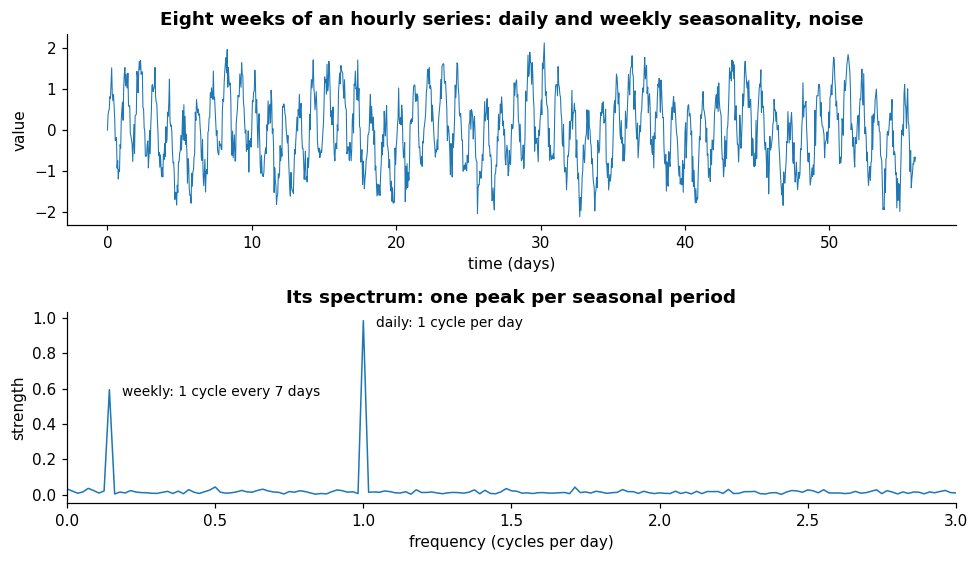
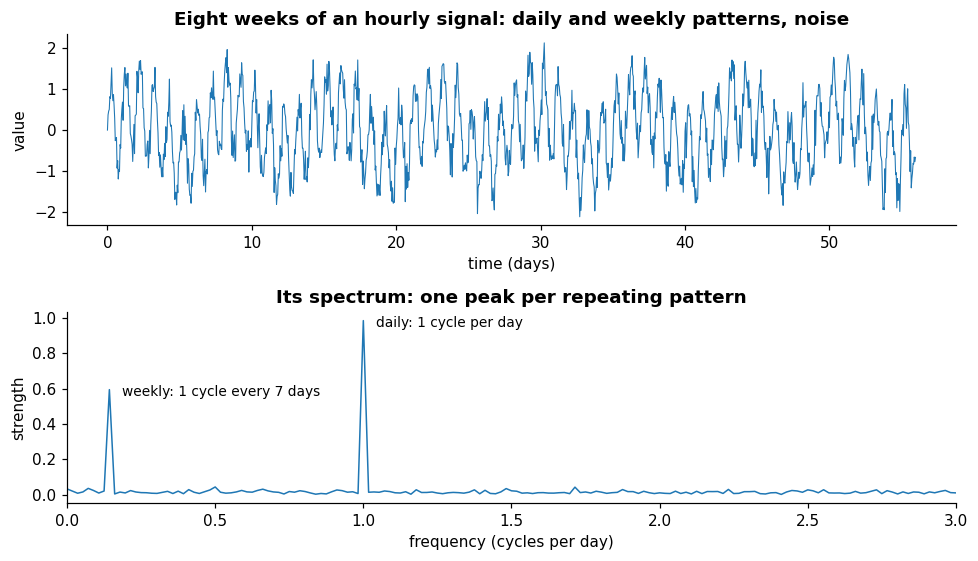
docs(knowledge): say signal in the Fourier doc; add images and features

Changed region(s): [[0.1534, 0.0, 0.8896, 0.0606], [0.2761, 0.5152, 0.7669, 0.5455]]

diff --git a/docs/research/knowledge/signals/assets/make_figures.py b/docs/research/knowledge/signals/assets/make_figures.py
@@ -221,7 +221,7 @@ def fourier_sum() -> None:
 
 
 def fourier_periods() -> None:
-    """An hourly series with daily and weekly seasonality, and its spectrum."""
+    """An hourly signal with daily and weekly repeating patterns, and its spectrum."""
     hours = np.arange(24 * 7 * 8)  # eight weeks
     x = (
         np.sin(2 * np.pi * hours / 24)
@@ -233,7 +233,7 @@ def fourier_periods() -> None:
     axes[0].set(
         xlabel="time (days)",
         ylabel="value",
-        title="Eight weeks of an hourly series: daily and weekly seasonality, noise",
+        title="Eight weeks of an hourly signal: daily and weekly patterns, noise",
     )
     per_day = np.fft.rfftfreq(hours.size, 1 / 24)  # cycles per day
     strength = 2 * np.abs(np.fft.rfft(x)) / hours.size
@@ -254,7 +254,7 @@ def fourier_periods() -> None:
         xlabel="frequency (cycles per day)",
         ylabel="strength",
         xlim=(0, 3),
-        title="Its spectrum: one peak per seasonal period",
+        title="Its spectrum: one peak per repeating pattern",
     )
     save(fig, "fourier-periods")
 

diff --git a/docs/research/knowledge/time-series/time-series.md b/docs/research/knowledge/time-series/time-series.md
@@ -31,7 +31,9 @@ where $x_t$ is the value at step $t$. The steps are usually equally spaced: ever
 
 A table of data where each row is a separate person, product or patient has no natural order: shuffling the rows changes nothing.
 
-A time series is different. "Time series data have a natural temporal ordering", which distinguishes it from "cross-sectional studies, in which there is no natural ordering of the observations" ([Time series][ts]).
+An image is in between. Its pixels are ordered by **position**: a digital image "contains a fixed number of rows and columns of pixels" ([Digital image][image]), so shuffling them destroys the picture. But position has no past and future: every pixel is available at once ([time-based vs not time-based](../signals/signals.md#time-based-vs-not-time-based)).
+
+A time series is ordered too, but in **time**. "Time series data have a natural temporal ordering", which distinguishes it from "cross-sectional studies, in which there is no natural ordering of the observations" ([Time series][ts]).
 
 Three consequences follow, and they matter for everything later:
 
@@ -47,7 +49,7 @@ How many values are recorded at each step?
 
 | | Univariate | Multivariate |
 |---|---|---|
-| **At each step** | one value | several values, one per **channel** (also called variable or variate) |
+| **At each step** | one value | several values, one per **channel** (also called variable, variate or **feature**) |
 | **Written** | $x_t \in \mathbb{R}$ | $\mathbf{x}_t \in \mathbb{R}^{C}$, with $C$ channels |
 | **The whole series** | a list of $T$ numbers | a table of $T$ rows and $C$ columns ($T \times C$) |
 | **Example** | a room's temperature every hour | temperature, humidity and power load of a building, every hour |
@@ -57,6 +59,8 @@ How many values are recorded at each step?
 In a multivariate series all channels **share the same clock**: row $t$ holds every channel's value at the same moment.
 
 The channels often influence each other (the power load follows the temperature), and that relation is information a model can use.
+
+In machine learning, each channel is a **feature**: "an individual measurable property or characteristic of a data set" ([Feature][feature]). The temperature, the humidity and the power load are three features of the same series.
 
 Real benchmark datasets range from a handful of channels to hundreds. These counts come from the TimesNet paper's dataset table ([wu2023timesnet](../../literature/wu2023timesnet.md), Table 6, p. 14); the domains are described in words, from the paper's text and Table 6:
 
@@ -76,7 +80,7 @@ Real benchmark datasets range from a handful of channels to hundreds. These coun
 
 The same idea, an ordered list of values, with one or more channels, fits a surprising range of data.
 
-Strictly, a time series is ordered by time. DNA and text are not: they are **ordered sequences** that borrow time-series tools, because the same tools work on any ordered list.
+Strictly, a time series is ordered by time. DNA, text and images are not: they are **ordered sequences** that borrow time-series tools, because the same tools work on any ordered list.
 
 | Data | The index $t$ is… | Channels | Values |
 |---|---|---|---|
@@ -86,6 +90,7 @@ Strictly, a time series is ordered by time. DNA and text are not: they are **ord
 | **Stock price** | time (each trading day or minute) | 1 per stock, or several (open, high, low, close) | prices |
 | **DNA** | **position** in the sequence | 4 after encoding (A, C, G, T) | 0 or 1 |
 | **Text** | position of each word or character | one per symbol, after encoding | 0 or 1 |
+| **Image** | **position**, with two indexes: row and column | 3 for a color image (red, green, blue), 1 for grayscale ([Channel][channel]) | brightness |
 | **Video** | time, one step per frame | one per pixel and color | brightness |
 
 ![Audio is a one-channel series indexed by time; DNA becomes a four-channel series indexed by position](assets/as-time-series.png)
@@ -98,7 +103,7 @@ Two examples from the figure:
   - This is called **one-hot encoding**.
   - The result is a 4-channel series indexed by position.
 
-**What changes when the index isn't time:** a DNA sequence has an order but no past and future. Every position is known at once, so a model may look both ways.
+**What changes when the index isn't time:** a DNA sequence or an image has an order but no past and future. Every position is known at once, so a model may look both ways. An image also needs two indexes, row and column, where a series has one.
 
 The tools carry over; the rule "never use the future" only applies when the index really is time and the task is to predict what comes next.
 
@@ -123,8 +128,8 @@ Two practical points, which later docs come back to:
 
 - A **time series** is a time-ordered list of values, usually equally spaced: a sampled, time-based signal.
 - **Order matters**, neighbors are related, and a model that predicts what comes next must never use the future.
-- **Univariate:** one value per step. **Multivariate:** several channels sharing the same clock, a $T \times C$ table.
-- **Many data types can be treated as time series:** audio, sensors, prices, and even DNA and text, ordered sequences where the index is position rather than time.
+- **Univariate:** one value per step. **Multivariate:** several channels (in machine learning, **features**) sharing the same clock, a $T \times C$ table.
+- **Many data types can be treated as time series:** audio, sensors, prices, and even DNA, text and images, ordered by position rather than time.
 - Values can be **real numbers, counts or symbols**; symbols are encoded as numbers, e.g. one-hot.
 
 ## Sources
@@ -132,8 +137,13 @@ Two practical points, which later docs come back to:
 - [Time series (Wikipedia)][ts]: definition, equal spacing, temporal ordering, types of values. Read on 2026-11-08.
 - [Signal (Wikipedia)][signal]: discrete-time signals as time series. Read on 2026-11-08.
 - [Sampling (signal processing) (Wikipedia)][sampling]: audio sampling rates. Read on 2026-11-08; telephone rate read on 2026-11-09.
+- [Digital image (Wikipedia)][image], [Channel (digital image) (Wikipedia)][channel]: pixels in rows and columns, color channels. Read on 2026-11-09.
+- [Feature (machine learning) (Wikipedia)][feature]: channels as features. Read on 2026-11-09.
 - [wu2023timesnet](../../literature/wu2023timesnet.md): channel counts and sampling intervals of benchmark datasets.
 
 [ts]: https://en.wikipedia.org/wiki/Time_series
 [signal]: https://en.wikipedia.org/wiki/Signal
 [sampling]: https://en.wikipedia.org/wiki/Sampling_(signal_processing)
+[image]: https://en.wikipedia.org/wiki/Digital_image
+[channel]: https://en.wikipedia.org/wiki/Channel_(digital_image)
+[feature]: https://en.wikipedia.org/wiki/Feature_(machine_learning)

diff --git a/docs/research/knowledge/signals/fourier-transform.md b/docs/research/knowledge/signals/fourier-transform.md
@@ -34,16 +34,16 @@ A plot of strengths alone, like the spectra on this page, is easier to read but 
 
 ## For sampled data: the discrete Fourier transform
 
-A recorded series is a finite list of samples, so in practice the **discrete Fourier transform (DFT)** is used.
+A recorded signal is a finite list of samples, so in practice the **discrete Fourier transform (DFT)** is used.
 
-- **What it does:** it turns "a finite sequence of equally-spaced samples" into a sequence of the same length, describing the series' frequency content ([Discrete Fourier transform][dft]).
+- **What it does:** it turns "a finite sequence of equally-spaced samples" into a sequence of the same length, describing the signal's frequency content ([Discrete Fourier transform][dft]).
 - **The formula,** for $N$ samples $x_0, \dots, x_{N-1}$ ([Discrete Fourier transform][dft]):
 
 $$X_k = \sum_{n=0}^{N-1} x_n \, e^{-i 2\pi \frac{k}{N} n}, \qquad k = 0, \dots, N-1$$
 
 - **What $k$ means:** component $k$ completes $k$ cycles over the $N$ samples. With $f_s$ samples per second, its frequency is $k \, f_s / N$.
 - **Resolution:** neighboring components are $f_s / N$ apart. A longer stretch of data (larger $N$) separates frequencies more finely; a short one blurs close frequencies together. This loss of detail from a limited stretch is called **leakage** ([Discrete Fourier transform][dft]).
-- **The highest frequency:** for a real-valued series, the DFT "is symmetric around the middle point, and so only half of the transform points are needed to reconstruct the original signal" ([Discrete Fourier transform][dft]).
+- **The highest frequency:** for a real-valued signal, the DFT "is symmetric around the middle point, and so only half of the transform points are needed to reconstruct the original signal" ([Discrete Fourier transform][dft]).
   - The useful half reaches the **Nyquist frequency**, $f_s/2$.
   - Nothing faster can be seen in the samples, as [sampling](sampling.md#sampling-fast-enough) explains.
 
@@ -52,21 +52,21 @@ $$X_k = \sum_{n=0}^{N-1} x_n \, e^{-i 2\pi \frac{k}{N} n}, \qquad k = 0, \dots, 
 The **fast Fourier transform (FFT)** is "an algorithm that computes the discrete Fourier transform (DFT), or its inverse" ([Fast Fourier transform][fft]).
 
 - **Same result, much faster:** it reduces the cost from $O(n^2)$ to $O(n \log n)$ for $n$ samples ([Fast Fourier transform][fft]).
-- **Why it matters:** computing the spectrum of a long series, or of every window a model reads, becomes cheap. In practice, "taking the Fourier transform" of a series means running an FFT.
+- **Why it matters:** computing the spectrum of a long signal, or of every short stretch a model reads, becomes cheap. In practice, "taking the Fourier transform" of sampled data means running an FFT.
 
-## Finding periods in a time series
+## Finding periods in a time-based signal
 
 A pattern that repeats every $p$ steps is a wave with frequency $1/p$ cycles per step, so it shows up as a peak at that frequency.
 
-![Eight weeks of an hourly series with daily and weekly seasonality, and its spectrum with peaks at 1 cycle per day and 1 cycle every 7 days](assets/fourier-periods.png)
+![Eight weeks of an hourly signal with a daily and a weekly repeating pattern, and its spectrum with peaks at 1 cycle per day and 1 cycle every 7 days](assets/fourier-periods.png)
 
-- **Top:** eight weeks of an hourly series with a daily and a weekly [seasonality](../time-series/structure/patterns.md#seasonality), plus noise. The two patterns are hard to separate by eye.
-- **Bottom:** its spectrum has one clear peak per seasonal period: at 1 cycle per day (period 24 hours) and at 1 cycle every 7 days (period 168 hours). The noise spreads thinly over all frequencies.
+- **Top:** eight weeks of a signal sampled every hour, with a pattern that repeats every day and one that repeats every week, plus noise. The two patterns are hard to separate by eye.
+- **Bottom:** its spectrum has one clear peak per repeating pattern: at 1 cycle per day (period 24 hours) and at 1 cycle every 7 days (period 168 hours). The noise spreads thinly over all frequencies.
 
-Deep time-series models use the same idea:
+Deep learning models for time-based signals use the same idea:
 
-- **TimesNet** finds a series' dominant periods with an FFT. It keeps the $k$ frequencies with the largest amplitudes, and turns each frequency $f_i$ into a period $p_i = \lceil T / f_i \rceil$ for a series of length $T$ ([wu2023timesnet](../../literature/wu2023timesnet.md), p. 4).
-- **A survey of deep time-series models** counts Fourier analysis among the basic modules shared by many models. Some use it to pick periods or keep chosen frequencies; others model the series directly in the frequency domain ([wang2026deep](../../literature/wang2026deep.md), Section 3.3, pp. 4–5).
+- **TimesNet** finds a signal's dominant periods with an FFT. It keeps the $k$ frequencies with the largest amplitudes, and turns each frequency $f_i$ into a period $p_i = \lceil T / f_i \rceil$ for a signal of length $T$ ([wu2023timesnet](../../literature/wu2023timesnet.md), p. 4).
+- **A survey of such models** counts Fourier analysis among the basic modules shared by many models. Some use it to pick periods or keep chosen frequencies; others model the signal directly in the frequency domain ([wang2026deep](../../literature/wang2026deep.md), Section 3.3, pp. 4–5).
 
 ## Key points
 
@@ -74,7 +74,7 @@ Deep time-series models use the same idea:
 - Time domain and frequency domain are two views of the same signal; both amplitude and phase are needed to go back.
 - For sampled data, the **DFT** of $N$ samples gives components $f_s/N$ apart, up to the **Nyquist frequency** $f_s/2$; longer stretches separate frequencies more finely.
 - The **FFT** computes the DFT in $O(n \log n)$ instead of $O(n^2)$.
-- A seasonal pattern with period $p$ shows up as a **peak at frequency $1/p$**: the spectrum finds periods.
+- A pattern that repeats every $p$ steps shows up as a **peak at frequency $1/p$**: the spectrum finds periods.
 
 ## Sources
 
@@ -83,7 +83,7 @@ Deep time-series models use the same idea:
 - [Fast Fourier transform (Wikipedia)][fft]: the algorithm and its cost. Read on 2026-11-09.
 - [Frequency domain (Wikipedia)][fd]: the phase is needed to define the signal. Read on 2026-11-09.
 - [wu2023timesnet](../../literature/wu2023timesnet.md): period discovery with the FFT.
-- [wang2026deep](../../literature/wang2026deep.md): Fourier analysis as a basic module of deep time-series models.
+- [wang2026deep](../../literature/wang2026deep.md): Fourier analysis as a basic module of deep learning models for time-based signals.
 
 [ft]: https://en.wikipedia.org/wiki/Fourier_transform
 [dft]: https://en.wikipedia.org/wiki/Discrete_Fourier_transform

diff --git a/docs/research/knowledge/signals/assets/README.md b/docs/research/knowledge/signals/assets/README.md
@@ -9,4 +9,4 @@ The figures shown in the signals docs of this folder, all drawn by [make_figures
 | aliasing.png | A 9 Hz wave sampled at 10 Hz looks like a 1 Hz wave | [sampling.md](../sampling.md) |
 | nyquist-reconstruction.png | A signal with no frequency above 3 Hz rebuilt from its samples: exactly at 8 per second, wrongly at 4 per second | [sampling.md](../sampling.md) |
 | fourier-sum.png | Three sine waves, their sum, and the sum's spectrum with one peak per wave | [fourier-transform.md](../fourier-transform.md) |
-| fourier-periods.png | An hourly series with daily and weekly seasonality, and its spectrum with one peak per period | [fourier-transform.md](../fourier-transform.md) |
+| fourier-periods.png | An hourly signal with a daily and a weekly repeating pattern, and its spectrum with one peak per pattern | [fourier-transform.md](../fourier-transform.md) |

diff --git a/docs/research/knowledge/time-series/structure/patterns.md b/docs/research/knowledge/time-series/structure/patterns.md
@@ -40,7 +40,7 @@ Seasonality means **repetition at a fixed, known period**. The word comes from t
 
 The **period** is the number of steps before the pattern repeats: in an hourly series, daily seasonality has a period of 24 and a weekly one 168.
 
-When the periods aren't known in advance, the series' spectrum shows them: each seasonal period appears as a peak ([Fourier transform](../../signals/fourier-transform.md#finding-periods-in-a-time-series)).
+When the periods aren't known in advance, the series' spectrum shows them: each seasonal period appears as a peak ([Fourier transform](../../signals/fourier-transform.md#finding-periods-in-a-time-based-signal)).
 
 **A series can have more than one seasonality** at once: "one series can have more than one seasonal pattern" ([FPP3, 2.3][fpp-patterns]).
 
